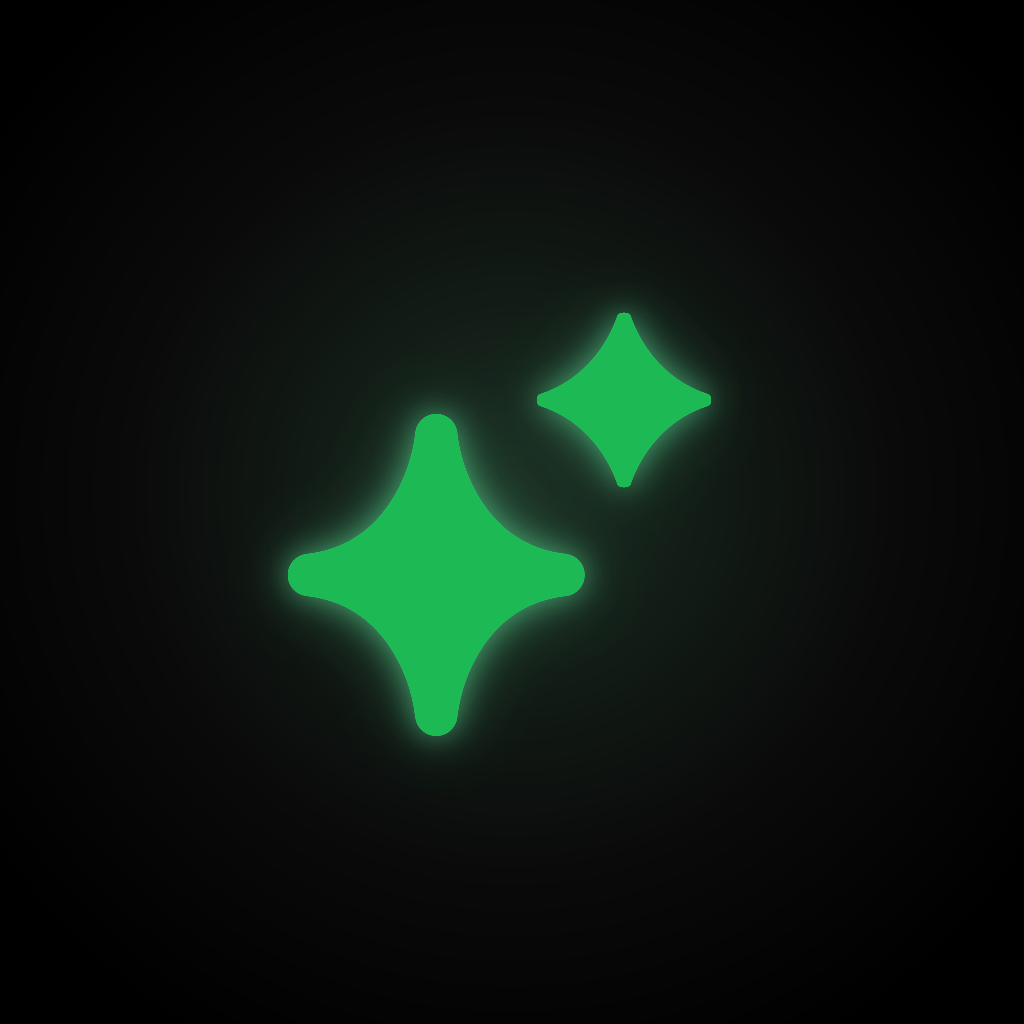
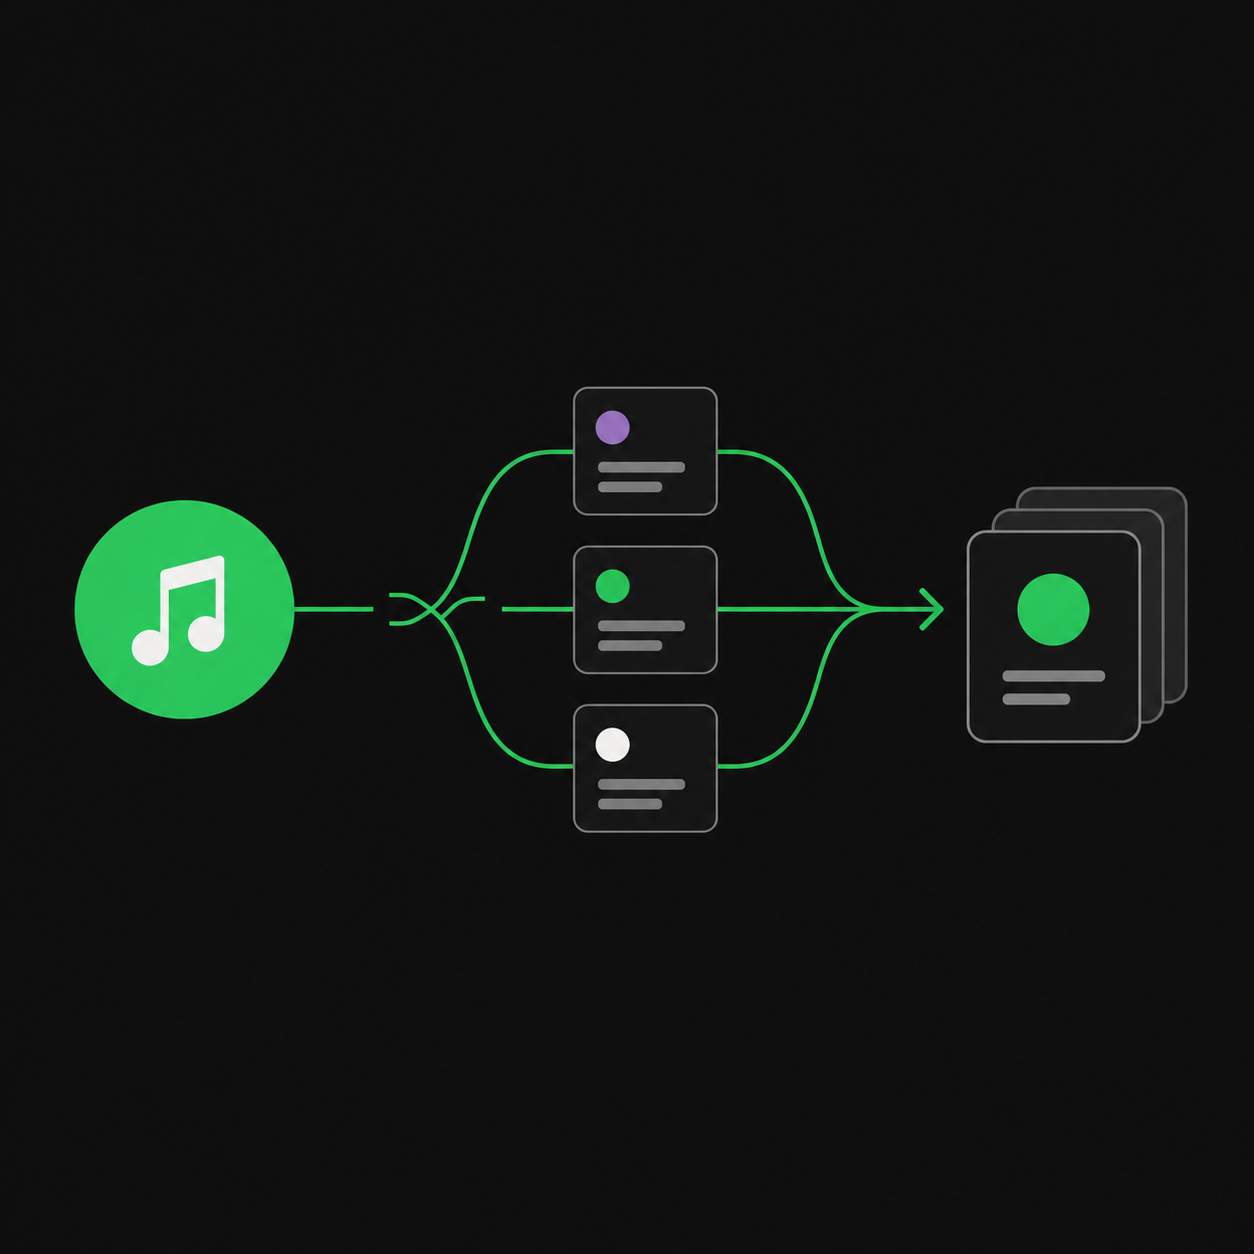
docs: refresh marketplace preview

Changed region(s): [[0.0312, 0.2812, 0.7812, 0.75], [0.7812, 0.375, 0.9688, 0.5938]]

diff --git a/README.md b/README.md
@@ -2,8 +2,6 @@
 
 Play songs similar to your selected song, playlist, album, or artist using radio, inspired-by, genre, era, and related-artist sources. Shuffle Similar learns automatically from early skips and can either manage your queue or create a permanent playlist from its recommendations.
 
-![Spicetify Shuffle Similar](preview-banner.png)
-
 ## Install
 
 ### Marketplace (recommended)
